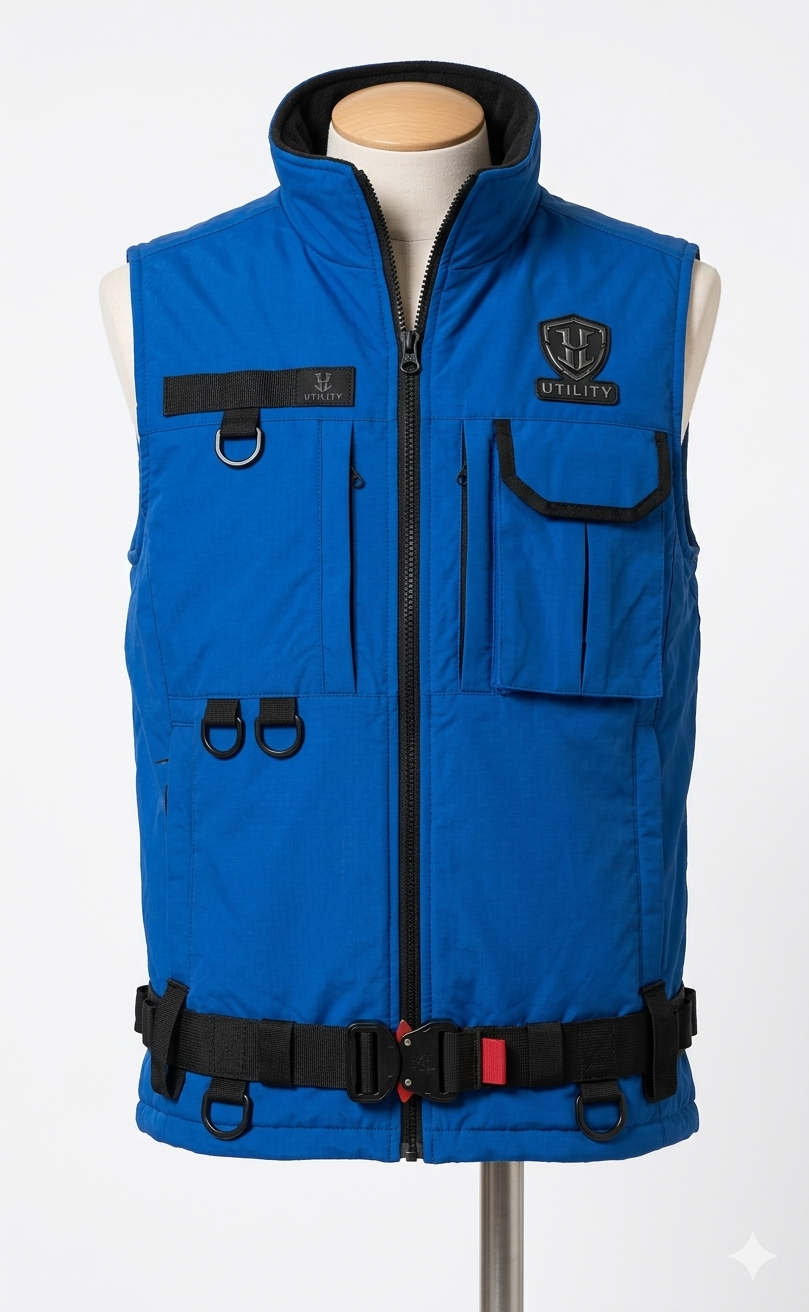
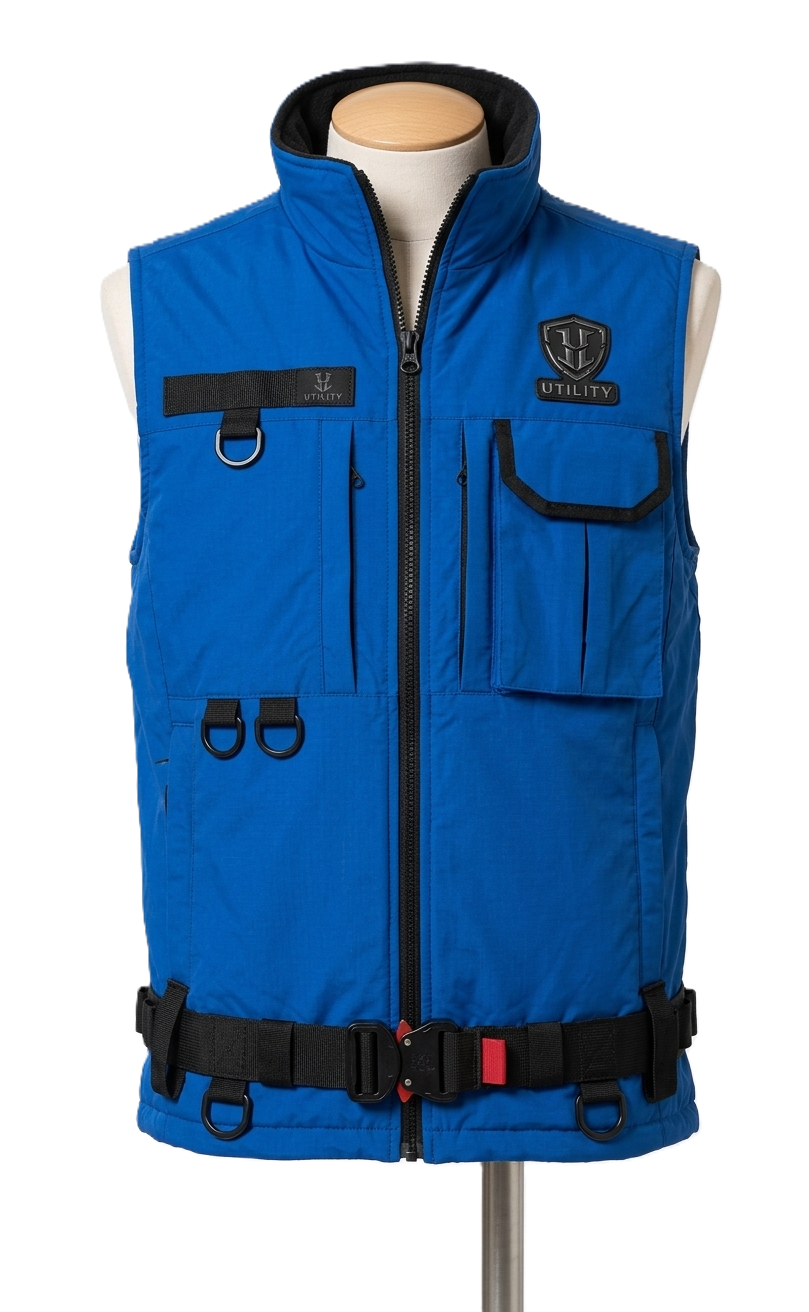
fixed image

diff --git a/app/(main)/products/sections/productRange.tsx b/app/(main)/products/sections/productRange.tsx
@@ -2,8 +2,10 @@ import Image from "next/image";
 const ProductRange = ({
   products,
   object = "cover",
+  gradient = false,
 }: {
   object?: string;
+  gradient?: boolean;
   products: { label: string; img: string; lists: string[] }[];
 }) => {
   return (
@@ -16,7 +18,7 @@ const ProductRange = ({
           {products.map((product, idx) => (
             <li key={idx}>
               <div
-                className={`w-full h-[370px] relative  ${object === "cover" ? "bg-gray-300" : "bg-gray-50"}`}
+                className={`w-full h-[370px] relative  ${object === "cover" ? "bg-gray-300" : "bg-[radial-gradient(ellipse_at_center,white,white,#ebebeb80)]"}`}
               >
                 <Image
                   src={`${product.img}`}

diff --git a/app/(main)/products/cooling-jacket/page.tsx b/app/(main)/products/cooling-jacket/page.tsx
@@ -21,6 +21,7 @@ const Page = () => {
         ]}
       />
       <ProductRange
+        gradient={true}
         object={"contain"}
         products={[
           {
